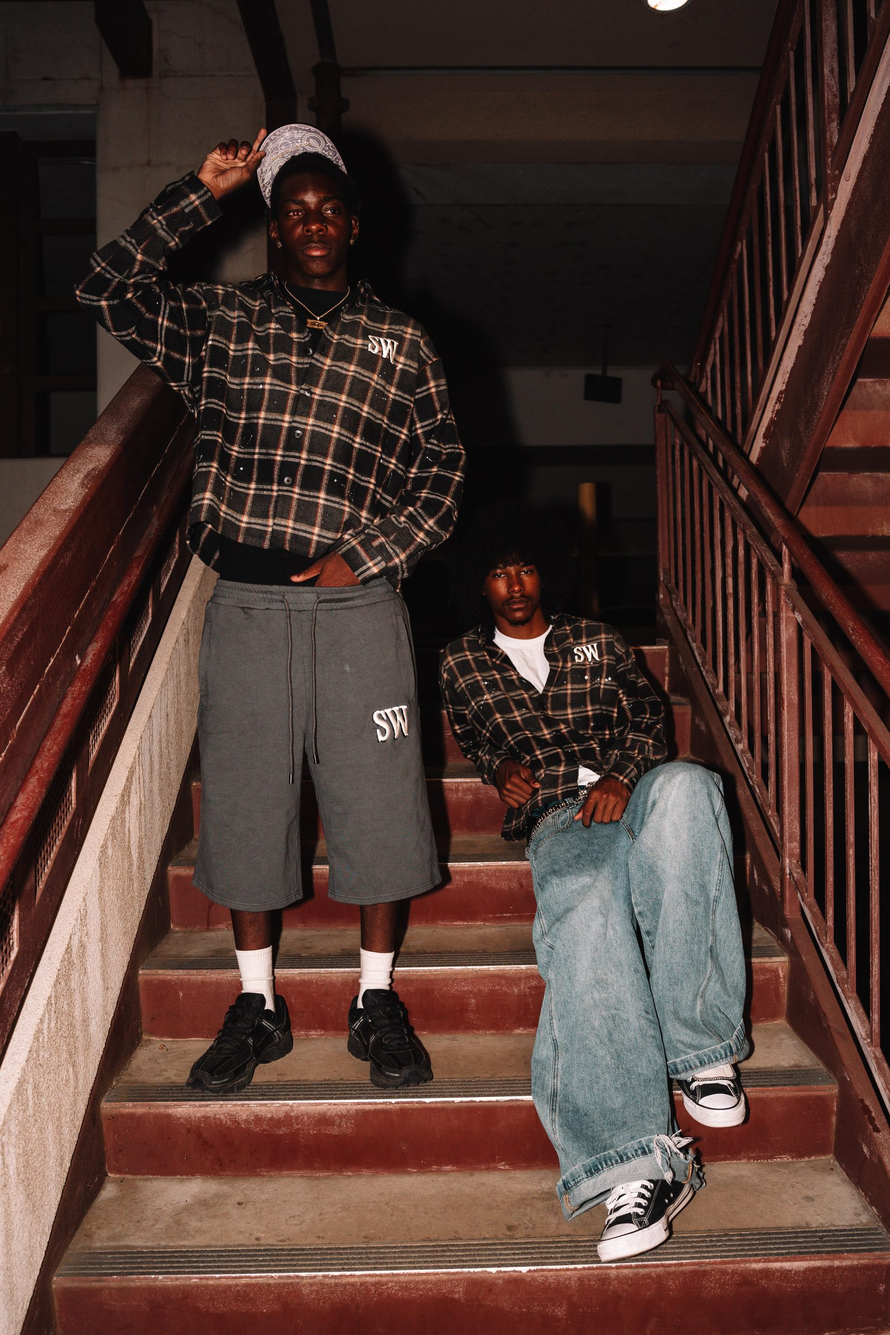
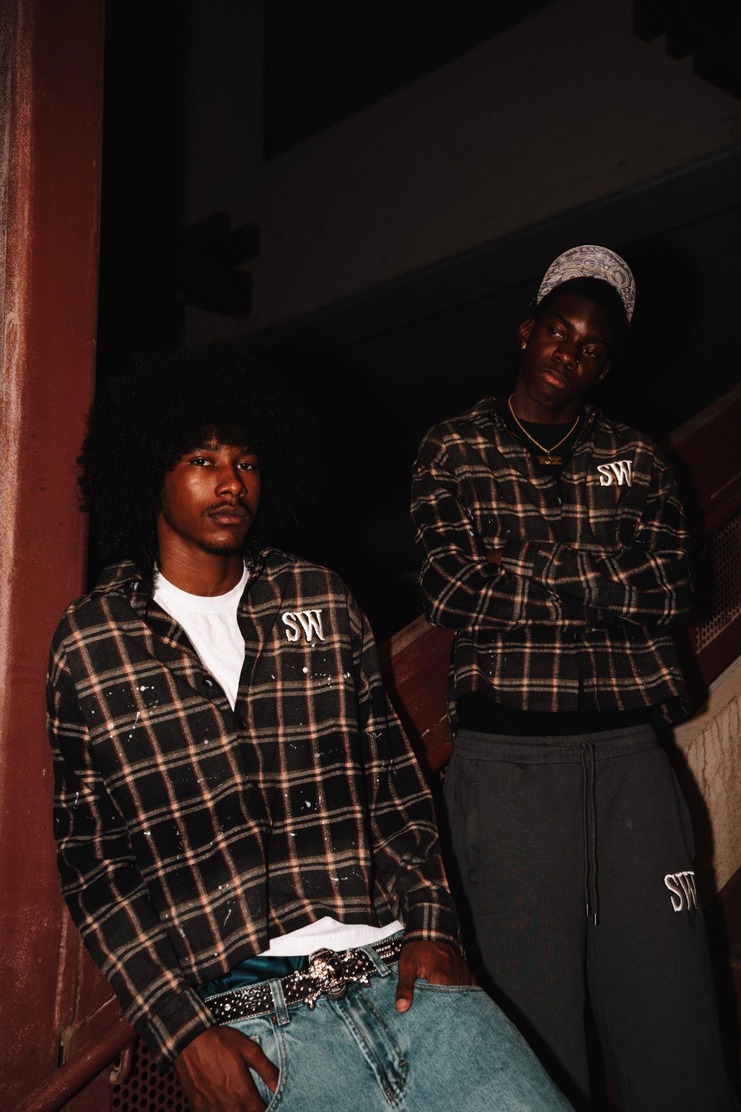
New main homepage photo; stairs photo moves to second spot
Claude-Session: https://claude.ai/code/session_01RbHraZ18Tm49vd9R3cDu3j

diff --git a/index.html b/index.html
@@ -10,7 +10,7 @@
 <body class="has-hero">
 <main>
 <section class="hero">
-  <div class="ph ph--dark"><img src="/images/hero.jpg" alt="Stay Weird Studios campaign" style="object-position:50% 14%" onerror="this.style.display='none'"></div>
+  <div class="ph ph--dark"><img src="/images/hero.jpg" alt="Stay Weird Studios campaign" style="object-position:50% 28%" onerror="this.style.display='none'"></div>
   <h1 class="hero__mark"><img src="/images/wordmark-white.png" alt="Stay Weird Studios"></h1>
   <a class="hero__link" href="/shop">Shop All</a>
 </section>
@@ -21,7 +21,7 @@
 </section>
 
 <section class="hero">
-  <div class="ph ph--dark"><img src="/images/hero-2.jpg" alt="Stay Weird Studios campaign" onerror="this.style.display='none'"></div>
+  <div class="ph ph--dark"><img src="/images/hero-2.jpg" alt="Stay Weird Studios campaign" style="object-position:50% 10%" onerror="this.style.display='none'"></div>
   <a class="hero__link" href="/shop">Shop Now</a>
 </section>
 </main>
